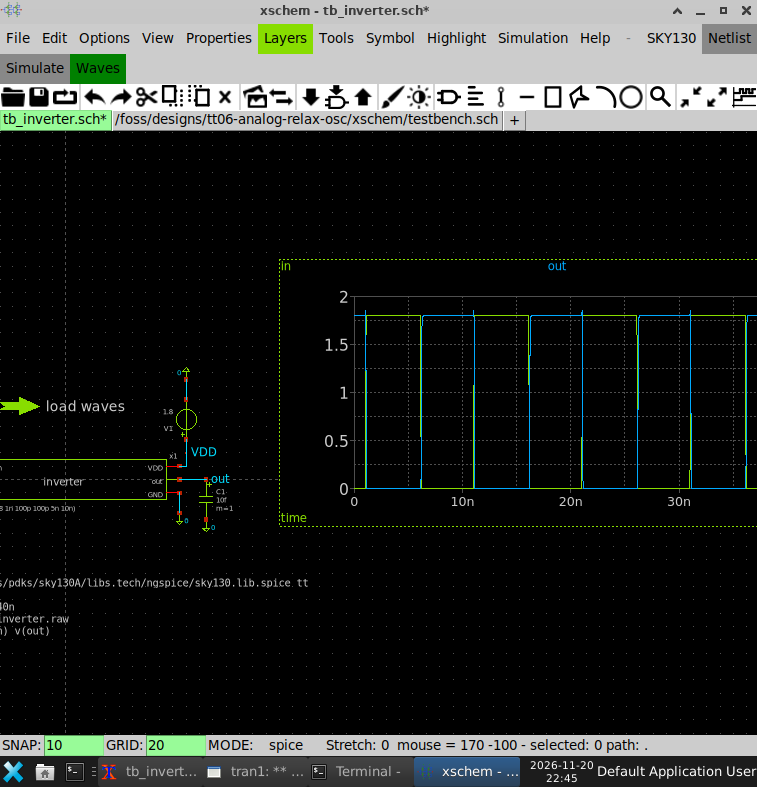
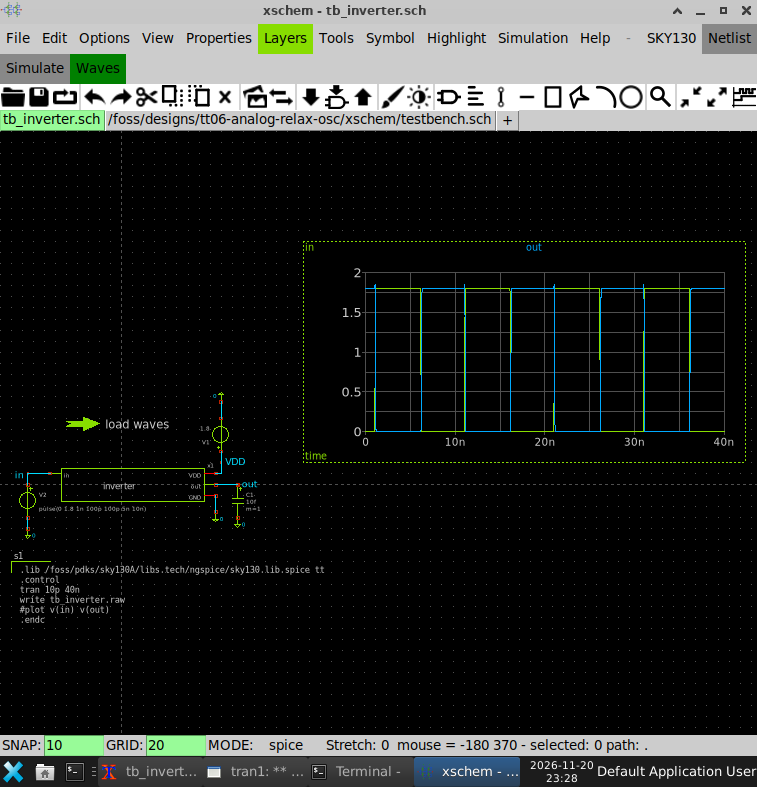
Simulation: Step 2.8 final graph screenshot, optional Step 2.9 digital lanes

diff --git a/inverter/simulation.md b/inverter/simulation.md
@@ -189,6 +189,31 @@ Mouse in the graph: left-drag pans, right-drag in X zooms, `F` zooms to fit all 
 {: .fail }
 Double-click inside the graph opens nothing, or the wrong window? The graph settings dialog only opens on a double-click in the middle of the graph **after the waves are loaded**. Selecting the border and pressing `Q` (above) always works.
 
+## Step 2.9 (optional): Stacked lanes (digital mode)
+
+Each signal in its own lane, in one graph, like a logic analyzer. Select the graph border, `Q`, set:
+
+    digital=1
+    ypos1=0
+    ypos2=1
+    node="in
+    \"-; 0.9 \"
+    out"
+    color="4 9 6"
+
+| Line | What it does |
+|---|---|
+| `digital=1` | lanes instead of overlaid traces |
+| `ypos1` / `ypos2` | how much of the lane stack is visible: raise `ypos2` if the top lane is cut off, lower it if lanes are tiny |
+| `\"-; 0.9 \"` | a white divider line (color 9) between the signals |
+| one `color` per `node` line | in the same order |
+
+{: .why }
+Digital mode shows **no voltage values**, only lane names and high/low. For voltages keep `digital=0` (Step 2.8), or put each signal in its own graph (add a second graph, `node="in"` in one and `node="out"` in the other).
+
+{: .fail }
+A signal is missing? Each signal (and the divider) must be on **its own line** inside `node="…"`, and there must be as many colors as lines.
+
 ## Next
 
-Step 2.9 (separate graphs for `in` and `out`) comes after I do it.
+[3. Layout](layout.html): draw the inverter's transistors and wires in Magic.
